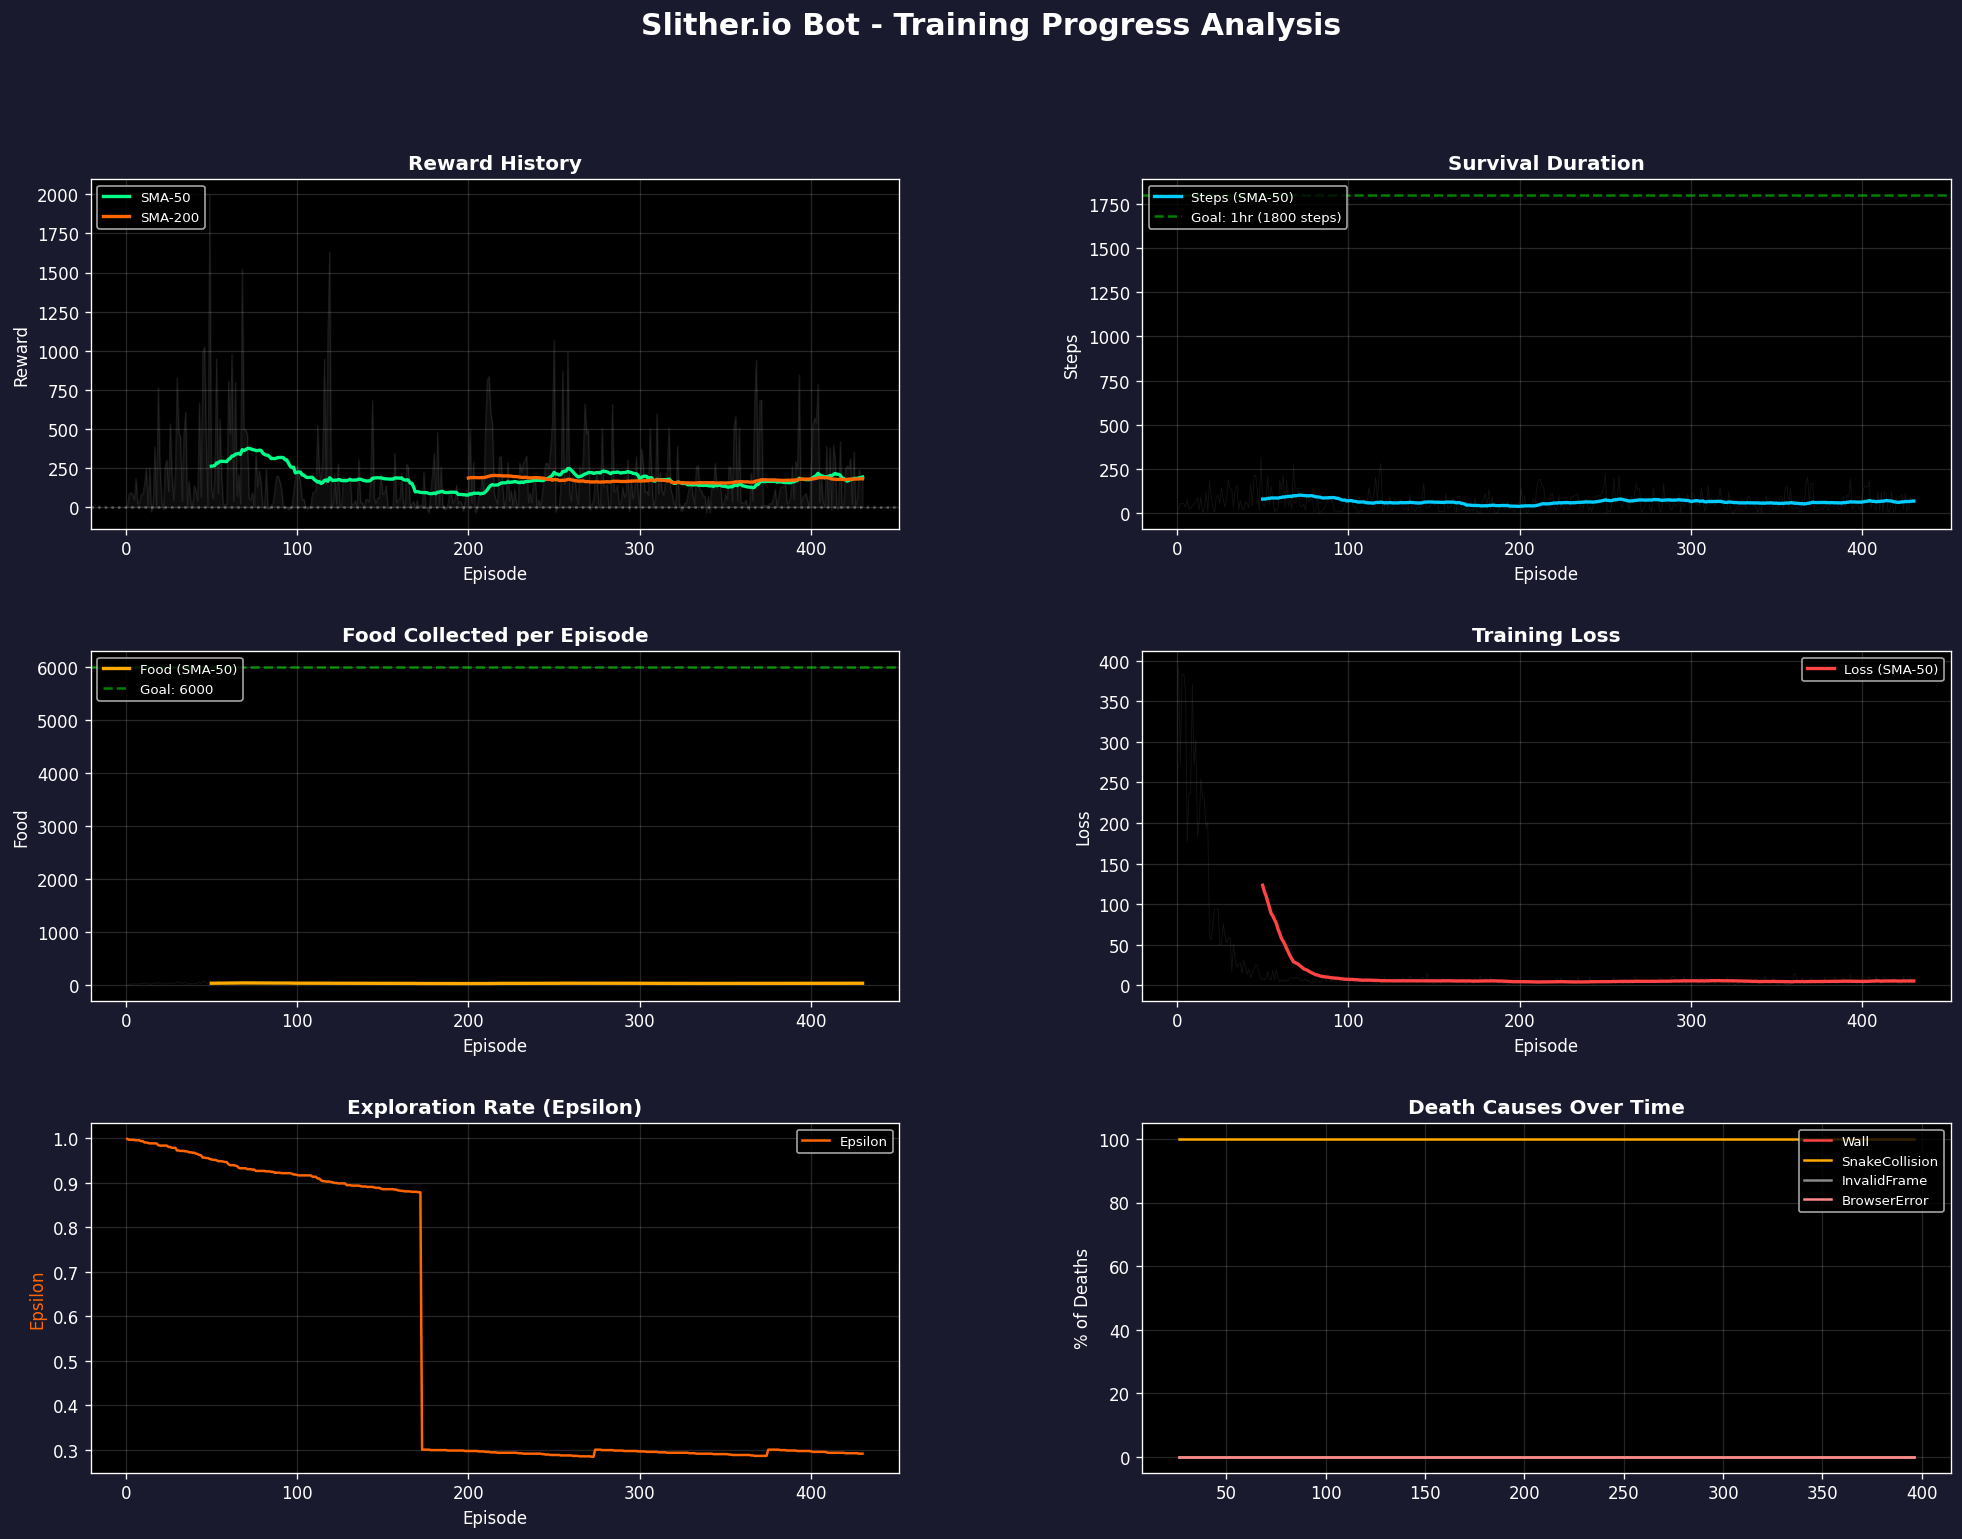
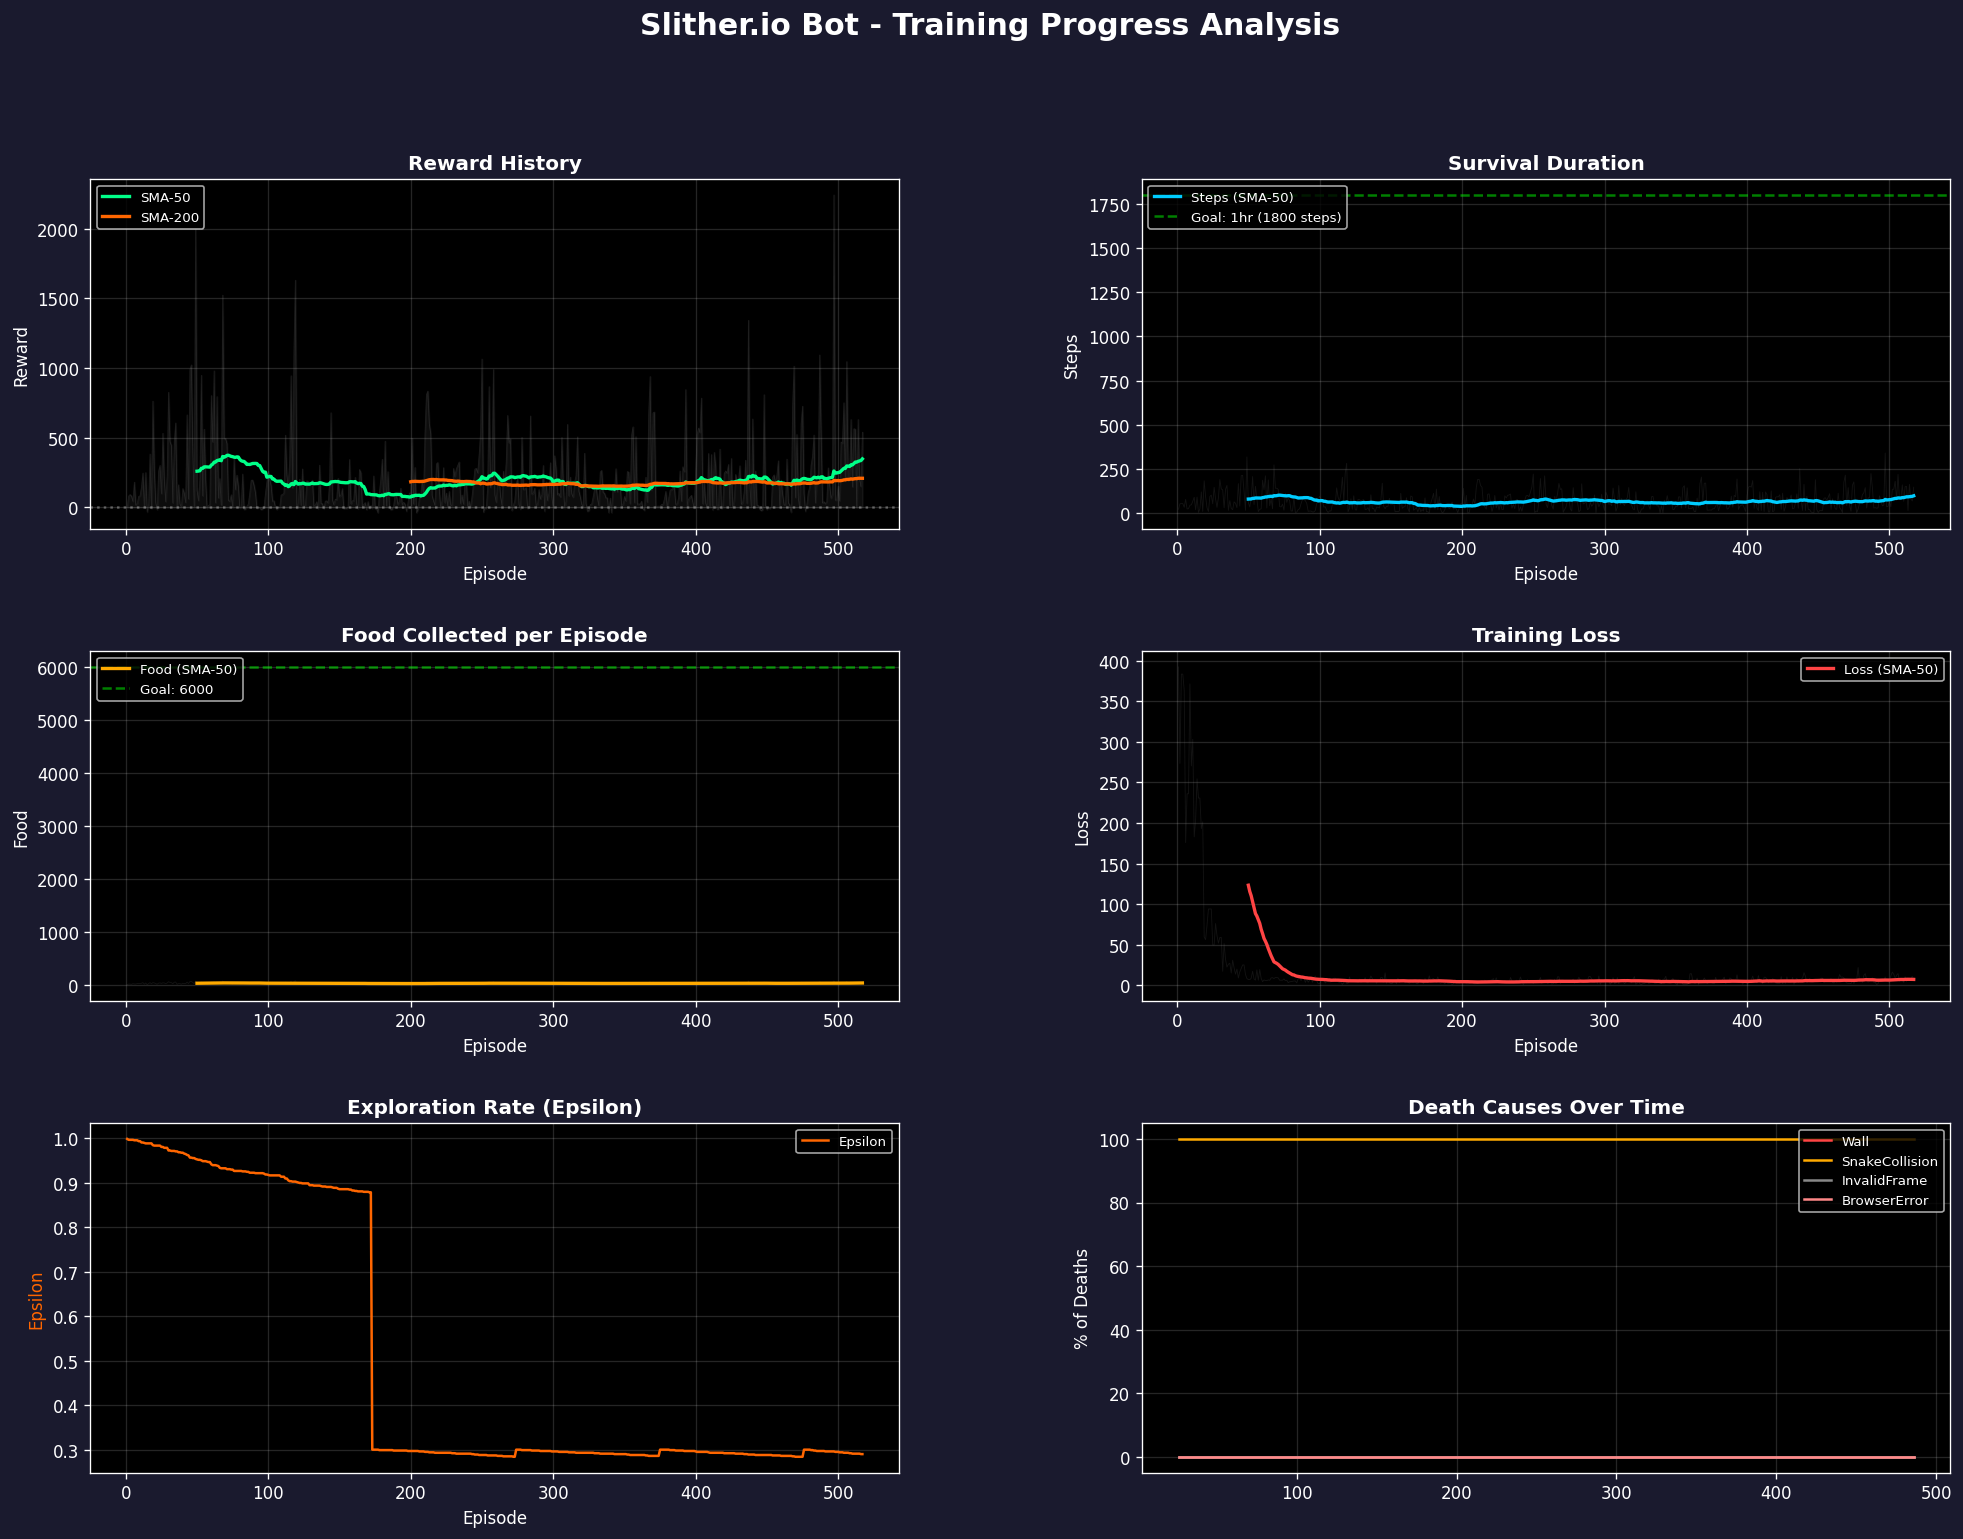
stats

diff --git a/gen2/progress_report.md b/gen2/progress_report.md
@@ -1,7 +1,7 @@
 # Slither.io Bot - Training Progress Report
 
-**Generated:** 2026-02-12 22:35:11  
-**Total Episodes:** 430  
+**Generated:** 2026-02-12 22:45:15  
+**Total Episodes:** 517  
 **Training Sessions:** 1
 
 ## Verdict: NOT LEARNING (Confidence: 50%)
@@ -9,7 +9,7 @@
 **Goal Feasibility:** UNLIKELY (5-25% chance) without tuning
 
 ### Warnings
-- Rewards flat: change = -18.0 between halves
+- Rewards flat: change = 6.7 between halves
 
 ### Positive Signals
 - Loss decreasing (model converging)
@@ -18,23 +18,23 @@
 
 | Metric | Mean | Std | Min | Max | P50 | P95 |
 |--------|------|-----|-----|-----|-----|-----|
-| Reward | 183.64 | 257.98 | -38.58 | 1996.81 | 90.59 | 682.12 |
-| Steps | 64.60 | 53.72 | 2.00 | 318.00 | 50.00 | 169.55 |
-| Food | 27.86 | 11.11 | 0.00 | 77.00 | 25.00 | 48.00 |
-| Loss | 19.24 | 56.11 | 0.86 | 392.24 | 5.54 | 75.34 |
+| Reward | 197.84 | 280.11 | -38.58 | 2242.28 | 93.48 | 766.90 |
+| Steps | 67.25 | 56.50 | 2.00 | 340.00 | 53.00 | 183.20 |
+| Food | 28.40 | 11.46 | 0.00 | 77.00 | 26.00 | 49.20 |
+| Loss | 17.22 | 51.39 | 0.86 | 392.24 | 5.68 | 59.18 |
 
 ## Goal Progress
 
 | Target | Current Best | Goal | Progress |
 |--------|-------------|------|----------|
 | Points | 77 | 6,000 | 1.3% |
-| Survival | 10.6 min | 60 min | 17.7% |
+| Survival | 11.3 min | 60 min | 18.9% |
 
 ## Session History
 
 | # | Style | Episodes | Avg Reward | Avg Steps |
 |---|-------|----------|------------|----------|
-| 1 | Standard (Curriculum) | 1-430 | 183.6 | 65 |
+| 1 | Standard (Curriculum) | 1-517 | 197.8 | 67 |
 
 ## Recommendations
 
